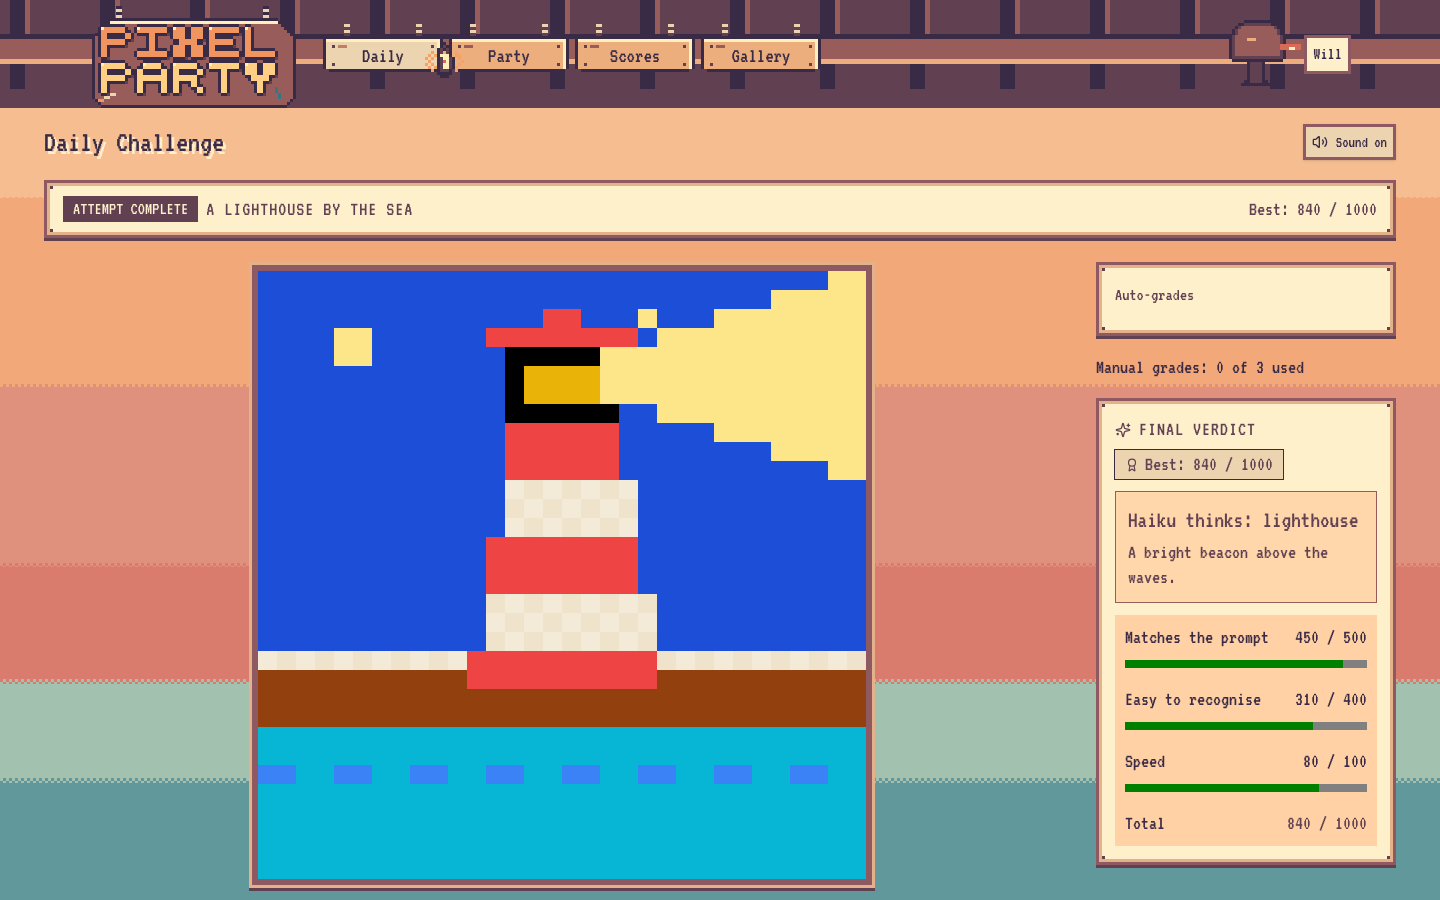
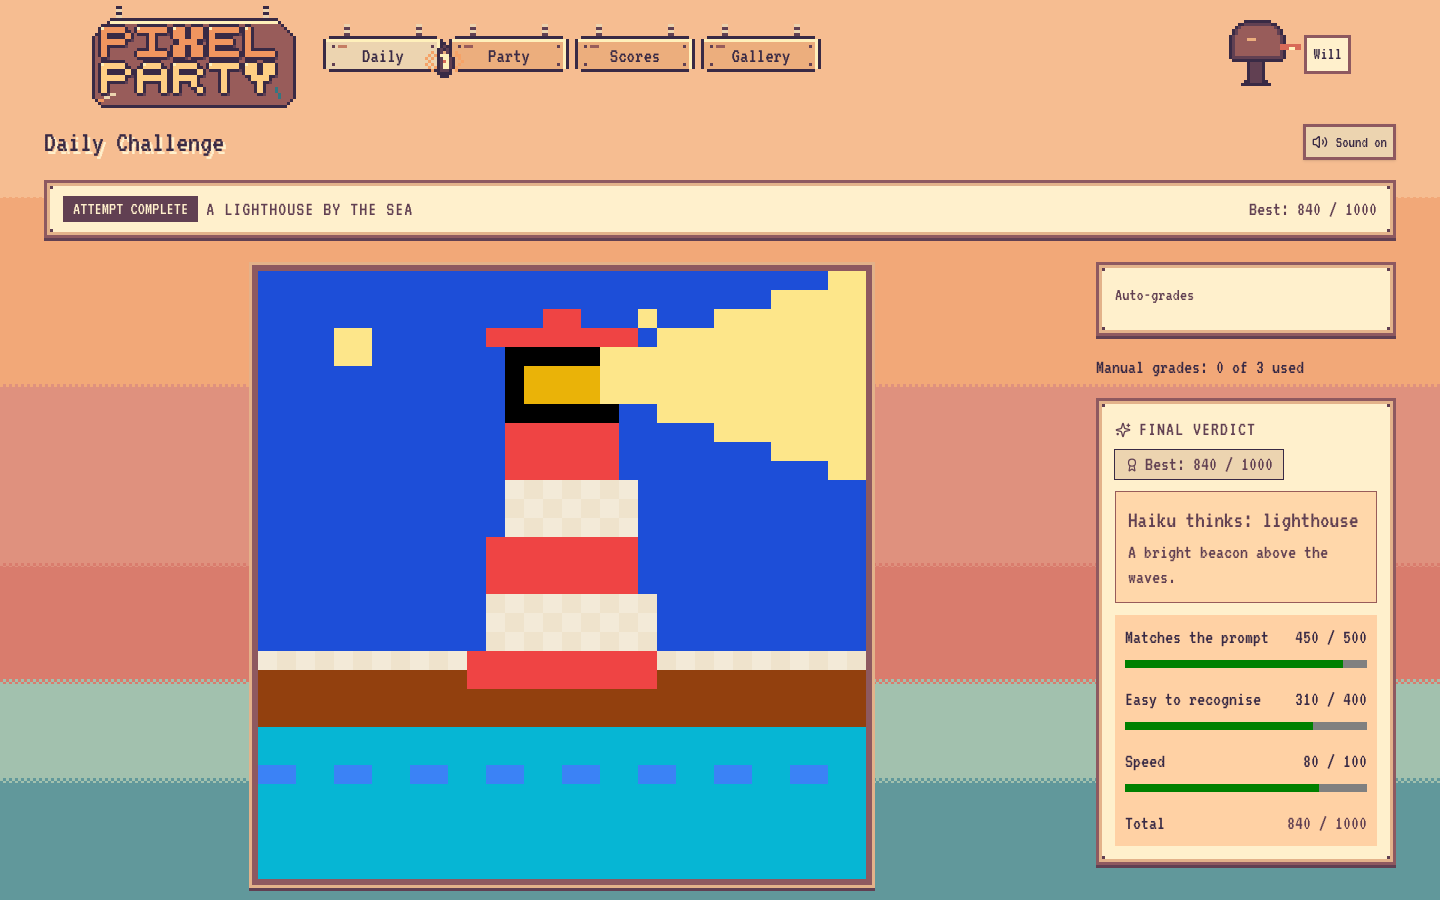
wip(play): preserve roof across daily states

Changed region(s): [[0.0, 0.0, 1.0, 0.1244]]

diff --git a/src/components/play/play.css b/src/components/play/play.css
@@ -3,7 +3,6 @@
 .porch-shell:has(.daily-play) .porch-nav__links { display: none; }
 .porch-shell:has(.daily-play) .porch-nav__roof { display: none; }
 .porch-shell:has(.daily-play) .porch-nav__compact-roof { display: block; position: absolute; inset: 0; overflow: hidden; pointer-events: none; }
-.porch-nav__compact-roof canvas { display: block; image-rendering: pixelated; }
 .play-backdrop { position: fixed; inset: 0; z-index: 0; pointer-events: none; }
 .play-backdrop .pixel-scene { width: 100%; height: 100%; }
 .play-scenery-layer { position: absolute; inset: 0; overflow: hidden; opacity: 0; transition: opacity 150ms linear; }

diff --git a/src/themes.css b/src/themes.css
@@ -67,6 +67,8 @@
 
 .porch-nav { position: relative; flex: none; background: transparent; }
 .porch-nav__compact-roof { display: none; }
+.porch-shell:not(:has(.porch-home)) .porch-nav__compact-roof { display: block; position: absolute; inset: 0; overflow: hidden; pointer-events: none; }
+.porch-nav__compact-roof canvas { display: block; image-rendering: pixelated; }
 .porch-nav .porch-nav__roof { position: absolute; inset: 0; pointer-events: none; }
 .porch-shell:has(.porch-home) { position: relative; }
 .porch-shell:has(.porch-home) > .porch-nav { position: absolute; z-index: 15; top: 0; left: 0; right: 0; }
